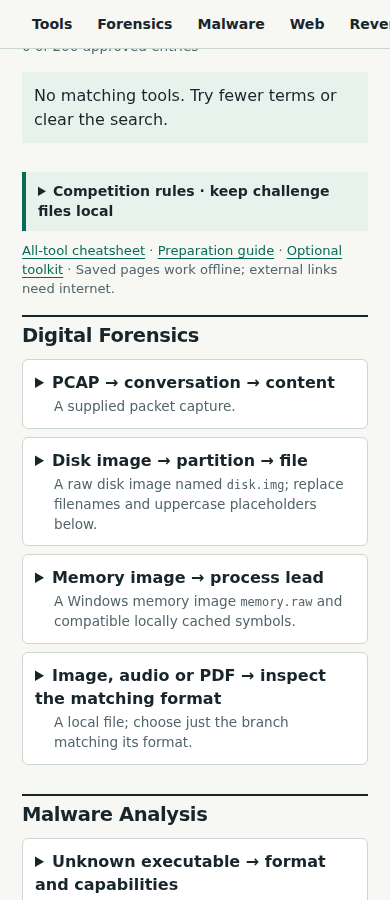
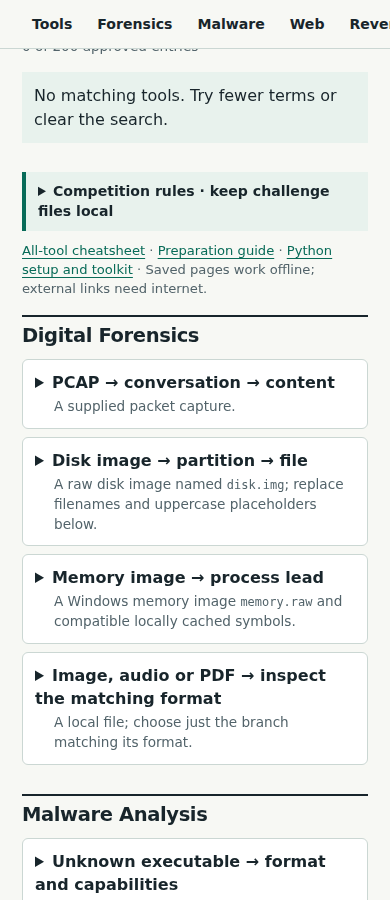
Expose current Python setup on public guide

Changed region(s): [[0.0615, 0.2489, 0.8615, 0.3422]]

diff --git a/index.html b/index.html
@@ -293,7 +293,7 @@
 <article class="catalog-tool" id="tool-kali-159" data-source-ids="kali-159" data-search="zip kali-159 Kali Participant request Package files into ZIP archives Miscellaneous" data-origin="participant request"><h3>zip</h3><p class="platform">Kali</p><p>Package files into ZIP archives</p><ul class="caveats"><li>Baseline documentation retained: this supporting utility needs a short task lookup, not a separate tutorial. Installed behavior was not tested. Workbook: Installed; version not captured</li></ul><ul class="references"><li><a href="https://infozip.sourceforge.net/Zip.html">zip — Package files into ZIP archives</a></li></ul><details class="metadata"><summary>Version and installation</summary><dl><dt>Platform</dt><dd>kali</dd><dt>Version</dt><dd>(not captured)</dd><dt>Location</dt><dd>Not specified</dd><dt>Remarks</dt><dd>Installed; version not captured</dd></dl></details></article></details>
     </section>
     <details class="rules"><summary>Competition rules · keep challenge files local</summary><p>Do not upload challenge files to online services. Generative AI must not generate solutions, code or scripts, or analyze challenges; automatically displayed search summaries are permitted. Unlisted standalone applications need organiser approval; personal commercial licences are prohibited. <a href="EVENT_SOURCES.html">Event rules and sources</a>.</p></details>
-    <p class="legend"><a href="CTF_CHEATSHEET.html">All-tool cheatsheet</a> · <a href="LEARNING_RESOURCES.html">Preparation guide</a> · <a href="TOOLKIT.html">Optional toolkit</a> · Saved pages work offline; external links need internet.</p>
+    <p class="legend"><a href="CTF_CHEATSHEET.html">All-tool cheatsheet</a> · <a href="LEARNING_RESOURCES.html">Preparation guide</a> · <a href="TOOLKIT.html">Python setup and toolkit</a> · Saved pages work offline; external links need internet.</p>
     <section id="forensics" aria-labelledby="forensics-title"><h2 id="forensics-title">Digital Forensics</h2><details class="task-route" id="route-pcap-stream"><summary><span>PCAP → conversation → content</span><small>A supplied packet capture.</small></summary><div class="route-body"><p class="route-tools"><a href="#tool-windows-2">Wireshark (Windows)</a> · <a href="#tool-windows-36">tshark (Windows)</a> · <a href="#tool-windows-18">zeek (Windows / WSL)</a></p><ol class="steps"><li>Open the capture in Wireshark. Choose Statistics → Conversations; select a relevant peer pair and apply its conversation filter.</li><li>Select a packet, then Analyze → Follow → TCP Stream (or the matching supported protocol). Inspect both directions.</li><li>For transferred files, use File → Export Objects → the matching protocol; save only the relevant object to a new file.</li></ol><p class="expected"><strong>Expected:</strong> A readable exchange or exported object tied to a specific conversation.</p><p class="fallback"><strong>If stuck:</strong> For a large capture, use Zeek summaries to choose a stream; use TShark only when repeated field extraction is needed.</p><p class="caveat"><strong>Note:</strong> Encrypted payloads need supplied keys; missing packets may prevent reconstruction. Keep original captures.</p><ul class="references"><li><a href="https://www.wireshark.org/docs/wsug_html_chunked/ChIOExportSection.html">Exporting Data</a></li></ul></div></details>
 <details class="task-route" id="route-disk-file"><summary><span>Disk image → partition → file</span><small>A raw disk image named <code>disk.img</code>; replace filenames and uppercase placeholders below.</small></summary><div class="route-body"><p class="route-tools"><a href="#tool-windows-23">The Sleuth Kit (Windows / WSL)</a> · <a href="#tool-windows-34">Autopsy (Windows)</a> · <a href="#tool-kali-143">TestDisk and PhotoRec (Kali)</a></p><ol class="steps"><li><code>mmls disk.img</code>: record the filesystem partition Start sector as OFFSET; for a filesystem-only image use OFFSET 0.</li><li><code>fls -r -o OFFSET disk.img</code>: locate the desired path and record its metadata address as INODE.</li><li><code>icat -o OFFSET disk.img INODE &gt; recovered.bin</code>: write to a new output name, then inspect the recovered bytes.</li></ol><p class="expected"><strong>Expected:</strong> A path and metadata address, followed by the selected file contents.</p><p class="fallback"><strong>If stuck:</strong> If listing fails, check image type and offset first; use Autopsy for GUI inspection or PhotoRec only when filesystem metadata is unusable.</p><p class="caveat"><strong>Note:</strong> Sleuth Kit is recorded in WSL. Offsets are sectors; use the actual sector size if not 512 bytes. Deleted recovery may be incomplete; fls does not recurse into deleted directories.</p><ul class="references"><li><a href="https://www.sleuthkit.org/sleuthkit/man/fls.html">The Sleuth Kit — official documentation</a></li><li><a href="https://www.sleuthkit.org/sleuthkit/man/mmls.html">mmls: partition offsets</a></li><li><a href="https://www.sleuthkit.org/sleuthkit/man/icat.html">icat: file recovery</a></li></ul></div></details>
 <details class="task-route" id="route-memory-process"><summary><span>Memory image → process lead</span><small>A Windows memory image <code>memory.raw</code> and compatible locally cached symbols.</small></summary><div class="route-body"><p class="route-tools"><a href="#tool-windows-31">volatility3 (Windows / WSL)</a> · <a href="#tool-kali-151">Volatility 2 (Kali)</a></p><ol class="steps"><li>From the installed Volatility 3 directory, run <code>python3 vol.py -f memory.raw windows.info</code> to check image and symbol recognition.</li><li>Run <code>python3 vol.py -f memory.raw windows.pstree</code> to find unusual process/parent relationships.</li><li>Run <code>python3 vol.py -f memory.raw windows.cmdline</code>; correlate arguments with the PID and parent you selected.</li></ol><p class="expected"><strong>Expected:</strong> A PID, parent and command line that identify the next artifact to inspect.</p><p class="fallback"><strong>If stuck:</strong> On symbol errors, resolve the matching symbols before trusting output. Use Volatility 2 only for a supported legacy image with its matching profile.</p><p class="caveat"><strong>Note:</strong> Volatility 3 runs in WSL and uses symbols, not Volatility 2 profiles. Prepare symbols before offline use; a missing process row does not prove absence.</p><ul class="references"><li><a href="https://volatility3.readthedocs.io/en/latest/getting-started-windows-tutorial.html">volatility3 — official documentation</a></li></ul></div></details>

diff --git a/keyword-preview.html b/keyword-preview.html
@@ -293,7 +293,7 @@
 <article class="catalog-tool" id="tool-kali-159" data-source-ids="kali-159" data-search="zip kali-159 Kali Participant request Package files into ZIP archives Miscellaneous" data-origin="participant request"><h3>zip</h3><p class="platform">Kali</p><p>Package files into ZIP archives</p><ul class="caveats"><li>Baseline documentation retained: this supporting utility needs a short task lookup, not a separate tutorial. Installed behavior was not tested. Workbook: Installed; version not captured</li></ul><ul class="references"><li><a href="https://infozip.sourceforge.net/Zip.html">zip — Package files into ZIP archives</a></li></ul><details class="metadata"><summary>Version and installation</summary><dl><dt>Platform</dt><dd>kali</dd><dt>Version</dt><dd>(not captured)</dd><dt>Location</dt><dd>Not specified</dd><dt>Remarks</dt><dd>Installed; version not captured</dd></dl></details></article></details>
     </section>
     <details class="rules"><summary>Competition rules · keep challenge files local</summary><p>Do not upload challenge files to online services. Generative AI must not generate solutions, code or scripts, or analyze challenges; automatically displayed search summaries are permitted. Unlisted standalone applications need organiser approval; personal commercial licences are prohibited. <a href="EVENT_SOURCES.html">Event rules and sources</a>.</p></details>
-    <p class="legend"><a href="CTF_CHEATSHEET.html">All-tool cheatsheet</a> · <a href="LEARNING_RESOURCES.html">Preparation guide</a> · <a href="TOOLKIT.html">Optional toolkit</a> · Saved pages work offline; external links need internet.</p>
+    <p class="legend"><a href="CTF_CHEATSHEET.html">All-tool cheatsheet</a> · <a href="LEARNING_RESOURCES.html">Preparation guide</a> · <a href="TOOLKIT.html">Python setup and toolkit</a> · Saved pages work offline; external links need internet.</p>
     <section id="forensics" aria-labelledby="forensics-title"><h2 id="forensics-title">Digital Forensics</h2><details class="task-route" id="route-pcap-stream"><summary><span>PCAP → conversation → content</span><small>A supplied packet capture.</small></summary><div class="route-body"><p class="route-tools"><a href="#tool-windows-2">Wireshark (Windows)</a> · <a href="#tool-windows-36">tshark (Windows)</a> · <a href="#tool-windows-18">zeek (Windows / WSL)</a></p><ol class="steps"><li>Open the capture in Wireshark. Choose Statistics → Conversations; select a relevant peer pair and apply its conversation filter.</li><li>Select a packet, then Analyze → Follow → TCP Stream (or the matching supported protocol). Inspect both directions.</li><li>For transferred files, use File → Export Objects → the matching protocol; save only the relevant object to a new file.</li></ol><p class="expected"><strong>Expected:</strong> A readable exchange or exported object tied to a specific conversation.</p><p class="fallback"><strong>If stuck:</strong> For a large capture, use Zeek summaries to choose a stream; use TShark only when repeated field extraction is needed.</p><p class="caveat"><strong>Note:</strong> Encrypted payloads need supplied keys; missing packets may prevent reconstruction. Keep original captures.</p><ul class="references"><li><a href="https://www.wireshark.org/docs/wsug_html_chunked/ChIOExportSection.html">Exporting Data</a></li></ul></div></details>
 <details class="task-route" id="route-disk-file"><summary><span>Disk image → partition → file</span><small>A raw disk image named <code>disk.img</code>; replace filenames and uppercase placeholders below.</small></summary><div class="route-body"><p class="route-tools"><a href="#tool-windows-23">The Sleuth Kit (Windows / WSL)</a> · <a href="#tool-windows-34">Autopsy (Windows)</a> · <a href="#tool-kali-143">TestDisk and PhotoRec (Kali)</a></p><ol class="steps"><li><code>mmls disk.img</code>: record the filesystem partition Start sector as OFFSET; for a filesystem-only image use OFFSET 0.</li><li><code>fls -r -o OFFSET disk.img</code>: locate the desired path and record its metadata address as INODE.</li><li><code>icat -o OFFSET disk.img INODE &gt; recovered.bin</code>: write to a new output name, then inspect the recovered bytes.</li></ol><p class="expected"><strong>Expected:</strong> A path and metadata address, followed by the selected file contents.</p><p class="fallback"><strong>If stuck:</strong> If listing fails, check image type and offset first; use Autopsy for GUI inspection or PhotoRec only when filesystem metadata is unusable.</p><p class="caveat"><strong>Note:</strong> Sleuth Kit is recorded in WSL. Offsets are sectors; use the actual sector size if not 512 bytes. Deleted recovery may be incomplete; fls does not recurse into deleted directories.</p><ul class="references"><li><a href="https://www.sleuthkit.org/sleuthkit/man/fls.html">The Sleuth Kit — official documentation</a></li><li><a href="https://www.sleuthkit.org/sleuthkit/man/mmls.html">mmls: partition offsets</a></li><li><a href="https://www.sleuthkit.org/sleuthkit/man/icat.html">icat: file recovery</a></li></ul></div></details>
 <details class="task-route" id="route-memory-process"><summary><span>Memory image → process lead</span><small>A Windows memory image <code>memory.raw</code> and compatible locally cached symbols.</small></summary><div class="route-body"><p class="route-tools"><a href="#tool-windows-31">volatility3 (Windows / WSL)</a> · <a href="#tool-kali-151">Volatility 2 (Kali)</a></p><ol class="steps"><li>From the installed Volatility 3 directory, run <code>python3 vol.py -f memory.raw windows.info</code> to check image and symbol recognition.</li><li>Run <code>python3 vol.py -f memory.raw windows.pstree</code> to find unusual process/parent relationships.</li><li>Run <code>python3 vol.py -f memory.raw windows.cmdline</code>; correlate arguments with the PID and parent you selected.</li></ol><p class="expected"><strong>Expected:</strong> A PID, parent and command line that identify the next artifact to inspect.</p><p class="fallback"><strong>If stuck:</strong> On symbol errors, resolve the matching symbols before trusting output. Use Volatility 2 only for a supported legacy image with its matching profile.</p><p class="caveat"><strong>Note:</strong> Volatility 3 runs in WSL and uses symbols, not Volatility 2 profiles. Prepare symbols before offline use; a missing process row does not prove absence.</p><ul class="references"><li><a href="https://volatility3.readthedocs.io/en/latest/getting-started-windows-tutorial.html">volatility3 — official documentation</a></li></ul></div></details>

diff --git a/TOOLKIT.html b/TOOLKIT.html
@@ -4,7 +4,7 @@
   <meta charset="utf-8">
   <meta name="viewport" content="width=device-width, initial-scale=1">
   <meta name="color-scheme" content="light">
[2 lines of base64/hex data omitted]
   <link rel="icon" href="data:,">
   <title>Optional local toolkit · Manual CTF Strategies</title>
   <style>
@@ -48,13 +48,18 @@
 <p><a id="setup"></a></p>
 <h2>Start here</h2>
 <p>For an editable local/remote connection scaffold, see <a href="TEMPLATES.html">Python challenge templates</a>. That optional starter requires pwntools; the byte and inspection helpers below do not.</p>
-<p>For broader competition preparation, install the <a href="requirements.txt">no-AI Python requirements</a> in a fresh <strong>Linux/WSL or Kali</strong> CPython 3.11/3.12 virtual environment:</p>
-<pre><code class="language-sh">python3 -m venv .venv
+<p>For broader competition preparation, install the <a href="requirements.txt">no-AI Python requirements</a> in a fresh <strong>Linux/WSL or Kali</strong> CPython 3.11/3.12 virtual environment. For a new checkout, use a GitHub account with access to this private repository:</p>
+<pre><code class="language-sh">git clone https://github.com/Labcoxyzl/manual-ctf-strategies.git
+cd manual-ctf-strategies
+python3 --version  # Confirm 3.11.x or 3.12.x before continuing.
+python3 -m venv .venv
 . .venv/bin/activate
 python -m pip install --only-binary=:all: -r requirements.txt
 python -m pip check
+python scripts/ctf.py doctor --workflow bytes
+python scripts/templates/math_client.py --local python scripts/templates/math_demo.py
 </code></pre>
-<p>Run these from the repository root before the competition. This optional set includes pwntools, crypto/math, packet/web, file-analysis and approved forensic libraries; it does not install AI/LLM extras. Keep <a href="constraints.txt">constraints.txt</a> beside the requirements file: it pins the reviewed dependencies. <code>--only-binary</code> rejects a package without a compatible wheel instead of building unreviewed source on the competition machine. The helpers in this guide still run without this set.</p>
+<p>If you already have a checkout or the offline export, skip the first two commands and start from its root. This optional set includes pwntools, crypto/math, packet/web, file-analysis and approved forensic libraries; it does not install AI/LLM extras. Keep <a href="constraints.txt">constraints.txt</a> beside the requirements file: it pins the reviewed dependencies. <code>--only-binary</code> rejects a package without a compatible wheel instead of building unreviewed source on the competition machine. The helpers in this guide still run without this set.</p>
 <p>Run commands from the folder containing <code>index.html</code> and <code>scripts/</code>. The entry point is <a href="scripts/ctf.py">scripts/ctf.py</a>; there is no installation step, network access or Python package dependency. Keep this folder structure when copying the toolkit offline.</p>
 <p>The declared runtime is <strong>CPython 3.10 or newer on Linux, including WSL</strong>. Check the interpreter before relying on the script:</p>
 <pre><code class="language-sh">python --version

diff --git a/guide-template.html b/guide-template.html
@@ -94,7 +94,7 @@
       <!-- guide:catalog -->
     </section>
     <details class="rules"><summary>Competition rules · keep challenge files local</summary><p>Do not upload challenge files to online services. Generative AI must not generate solutions, code or scripts, or analyze challenges; automatically displayed search summaries are permitted. Unlisted standalone applications need organiser approval; personal commercial licences are prohibited. <a href="EVENT_SOURCES.html">Event rules and sources</a>.</p></details>
-    <p class="legend"><a href="CTF_CHEATSHEET.html">All-tool cheatsheet</a> · <a href="LEARNING_RESOURCES.html">Preparation guide</a> · <a href="TOOLKIT.html">Optional toolkit</a> · Saved pages work offline; external links need internet.</p>
+    <p class="legend"><a href="CTF_CHEATSHEET.html">All-tool cheatsheet</a> · <a href="LEARNING_RESOURCES.html">Preparation guide</a> · <a href="TOOLKIT.html">Python setup and toolkit</a> · Saved pages work offline; external links need internet.</p>
     <!-- guide:routes -->
   </main>
   <footer><div class="wrap">Approved entries from the organiser’s 15 October tool review. Check procedures on the competition machines before relying on them.</div></footer>

diff --git a/scripts/README.md b/scripts/README.md
@@ -7,16 +7,21 @@ Use these prewritten helpers for repeatable byte conversion and bounded file ins
 
 For an editable local/remote connection scaffold, see [Python challenge templates](templates/README.md). That optional starter requires pwntools; the byte and inspection helpers below do not.
 
-For broader competition preparation, install the [no-AI Python requirements](../requirements.txt) in a fresh **Linux/WSL or Kali** CPython 3.11/3.12 virtual environment:
+For broader competition preparation, install the [no-AI Python requirements](../requirements.txt) in a fresh **Linux/WSL or Kali** CPython 3.11/3.12 virtual environment. For a new checkout, use a GitHub account with access to this private repository:
 
 ```sh
+git clone https://github.com/Labcoxyzl/manual-ctf-strategies.git
+cd manual-ctf-strategies
+python3 --version  # Confirm 3.11.x or 3.12.x before continuing.
 python3 -m venv .venv
 . .venv/bin/activate
 python -m pip install --only-binary=:all: -r requirements.txt
 python -m pip check
+python scripts/ctf.py doctor --workflow bytes
+python scripts/templates/math_client.py --local python scripts/templates/math_demo.py
 ```
 
-Run these from the repository root before the competition. This optional set includes pwntools, crypto/math, packet/web, file-analysis and approved forensic libraries; it does not install AI/LLM extras. Keep [constraints.txt](../constraints.txt) beside the requirements file: it pins the reviewed dependencies. `--only-binary` rejects a package without a compatible wheel instead of building unreviewed source on the competition machine. The helpers in this guide still run without this set.
+If you already have a checkout or the offline export, skip the first two commands and start from its root. This optional set includes pwntools, crypto/math, packet/web, file-analysis and approved forensic libraries; it does not install AI/LLM extras. Keep [constraints.txt](../constraints.txt) beside the requirements file: it pins the reviewed dependencies. `--only-binary` rejects a package without a compatible wheel instead of building unreviewed source on the competition machine. The helpers in this guide still run without this set.
 
 Run commands from the folder containing `index.html` and `scripts/`. The entry point is [scripts/ctf.py](ctf.py); there is no installation step, network access or Python package dependency. Keep this folder structure when copying the toolkit offline.
 
